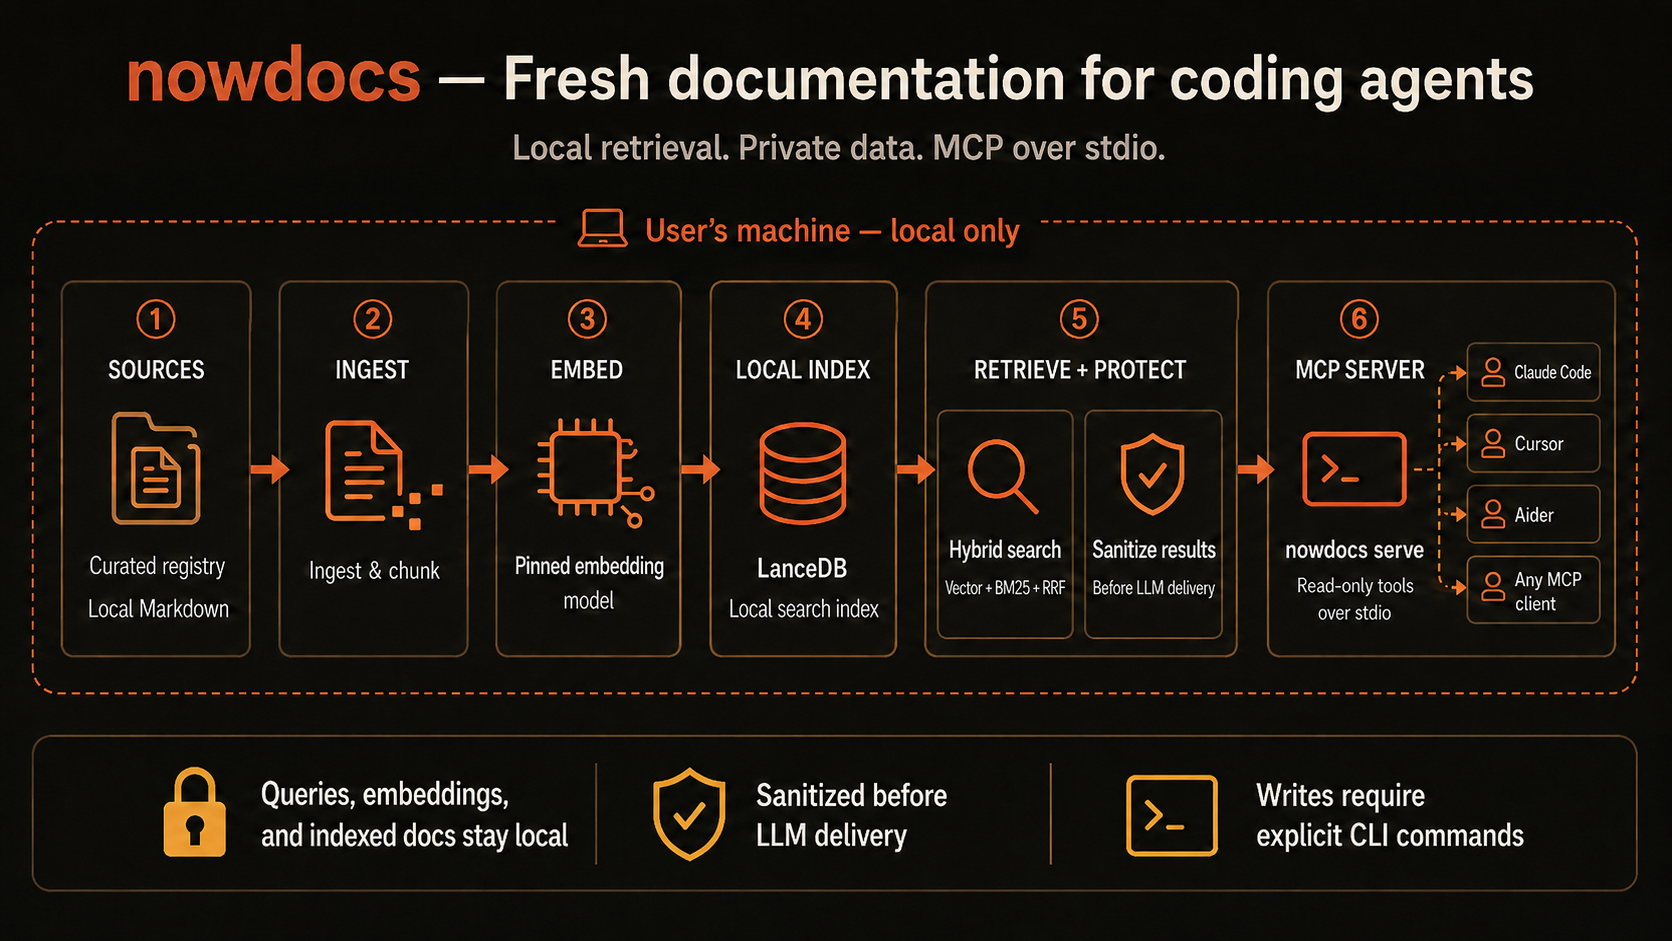
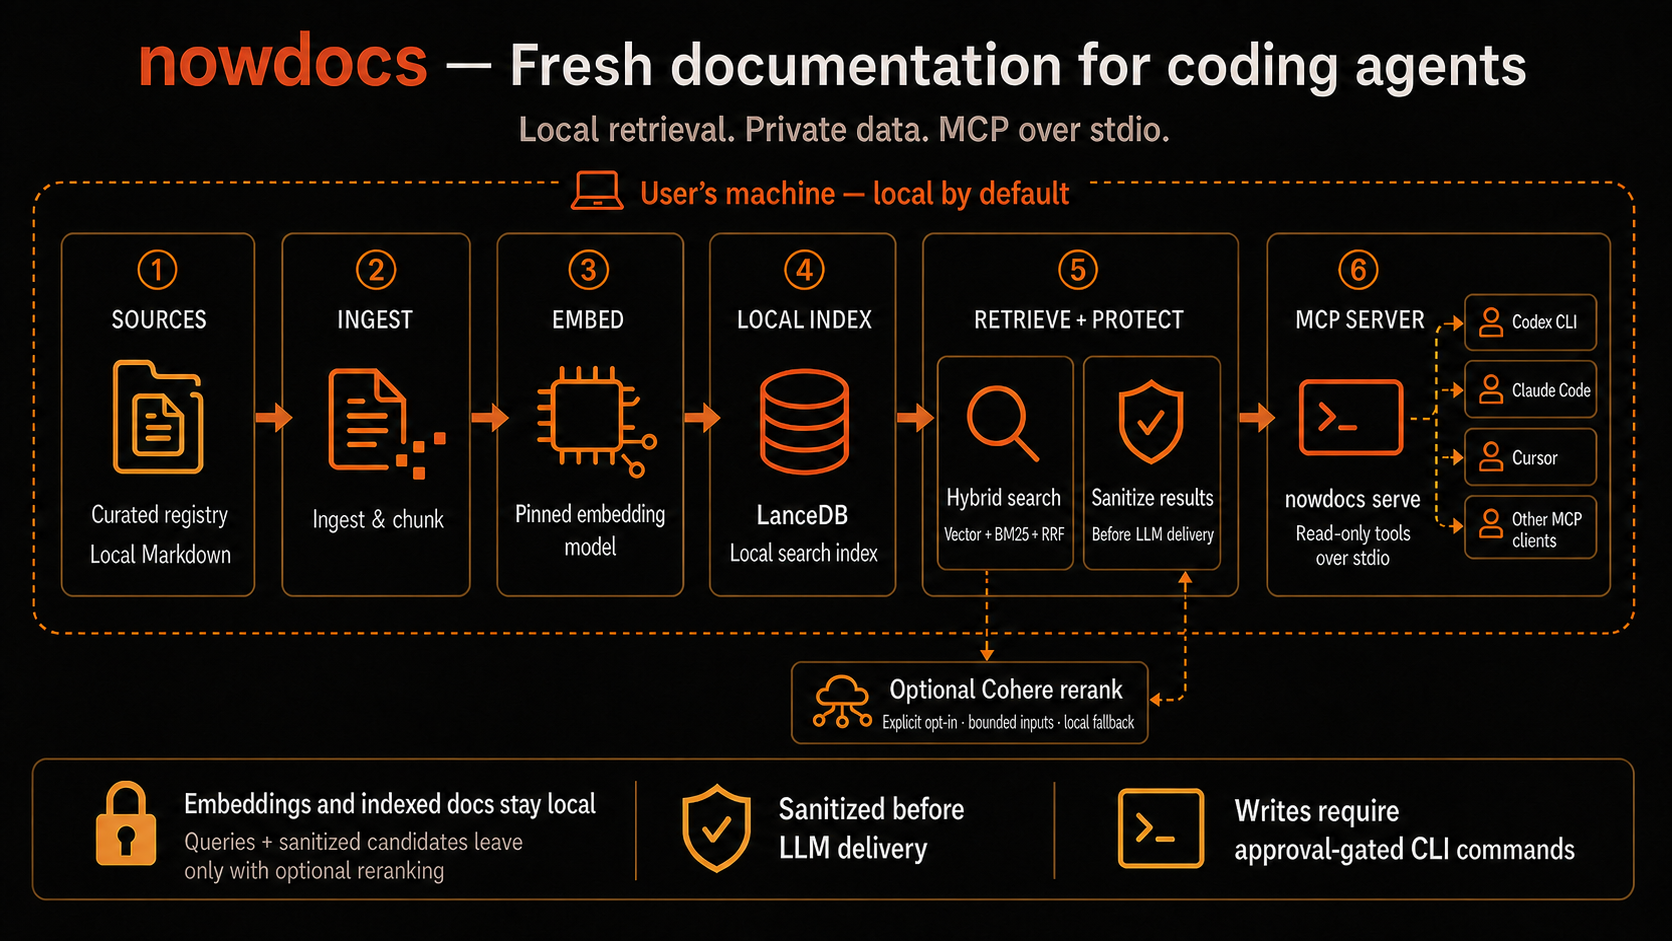
docs: refresh v0.2 architecture overview

Changed region(s): [[0.0311, 0.0308, 0.9952, 0.9554], [0.8708, 0.7705, 0.9641, 0.8013], [0.1866, 0.678, 0.2799, 0.7088]]

diff --git a/README.md b/README.md
@@ -4,7 +4,7 @@
 
 Coding agents can confidently suggest APIs that have changed since their training data was collected. nowdocs indexes documentation on your machine and exposes it through MCP, so Codex CLI, Claude Code, Cursor, and other MCP clients can search current documentation instead of relying only on model memory.
 
-![Architecture overview: documentation sources are ingested, embedded, indexed locally, retrieved through hybrid search, sanitized, and served to MCP clients over stdio.](docs/assets/architecture.png)
+![Architecture overview: documentation is indexed locally and served through read-only MCP; optional Cohere reranking is an explicit opt-in outside the local boundary, and writes use approval-gated CLI commands.](docs/assets/architecture.png)
 
 **Version 0.2.0:** Prebuilt binaries and checksums are available on the [v0.2.0 release page](https://github.com/nowdocs/nowdocs/releases/tag/v0.2.0). nowdocs is free to run, has no telemetry, and by default keeps queries, embeddings, and indexed documentation on your device.
 
